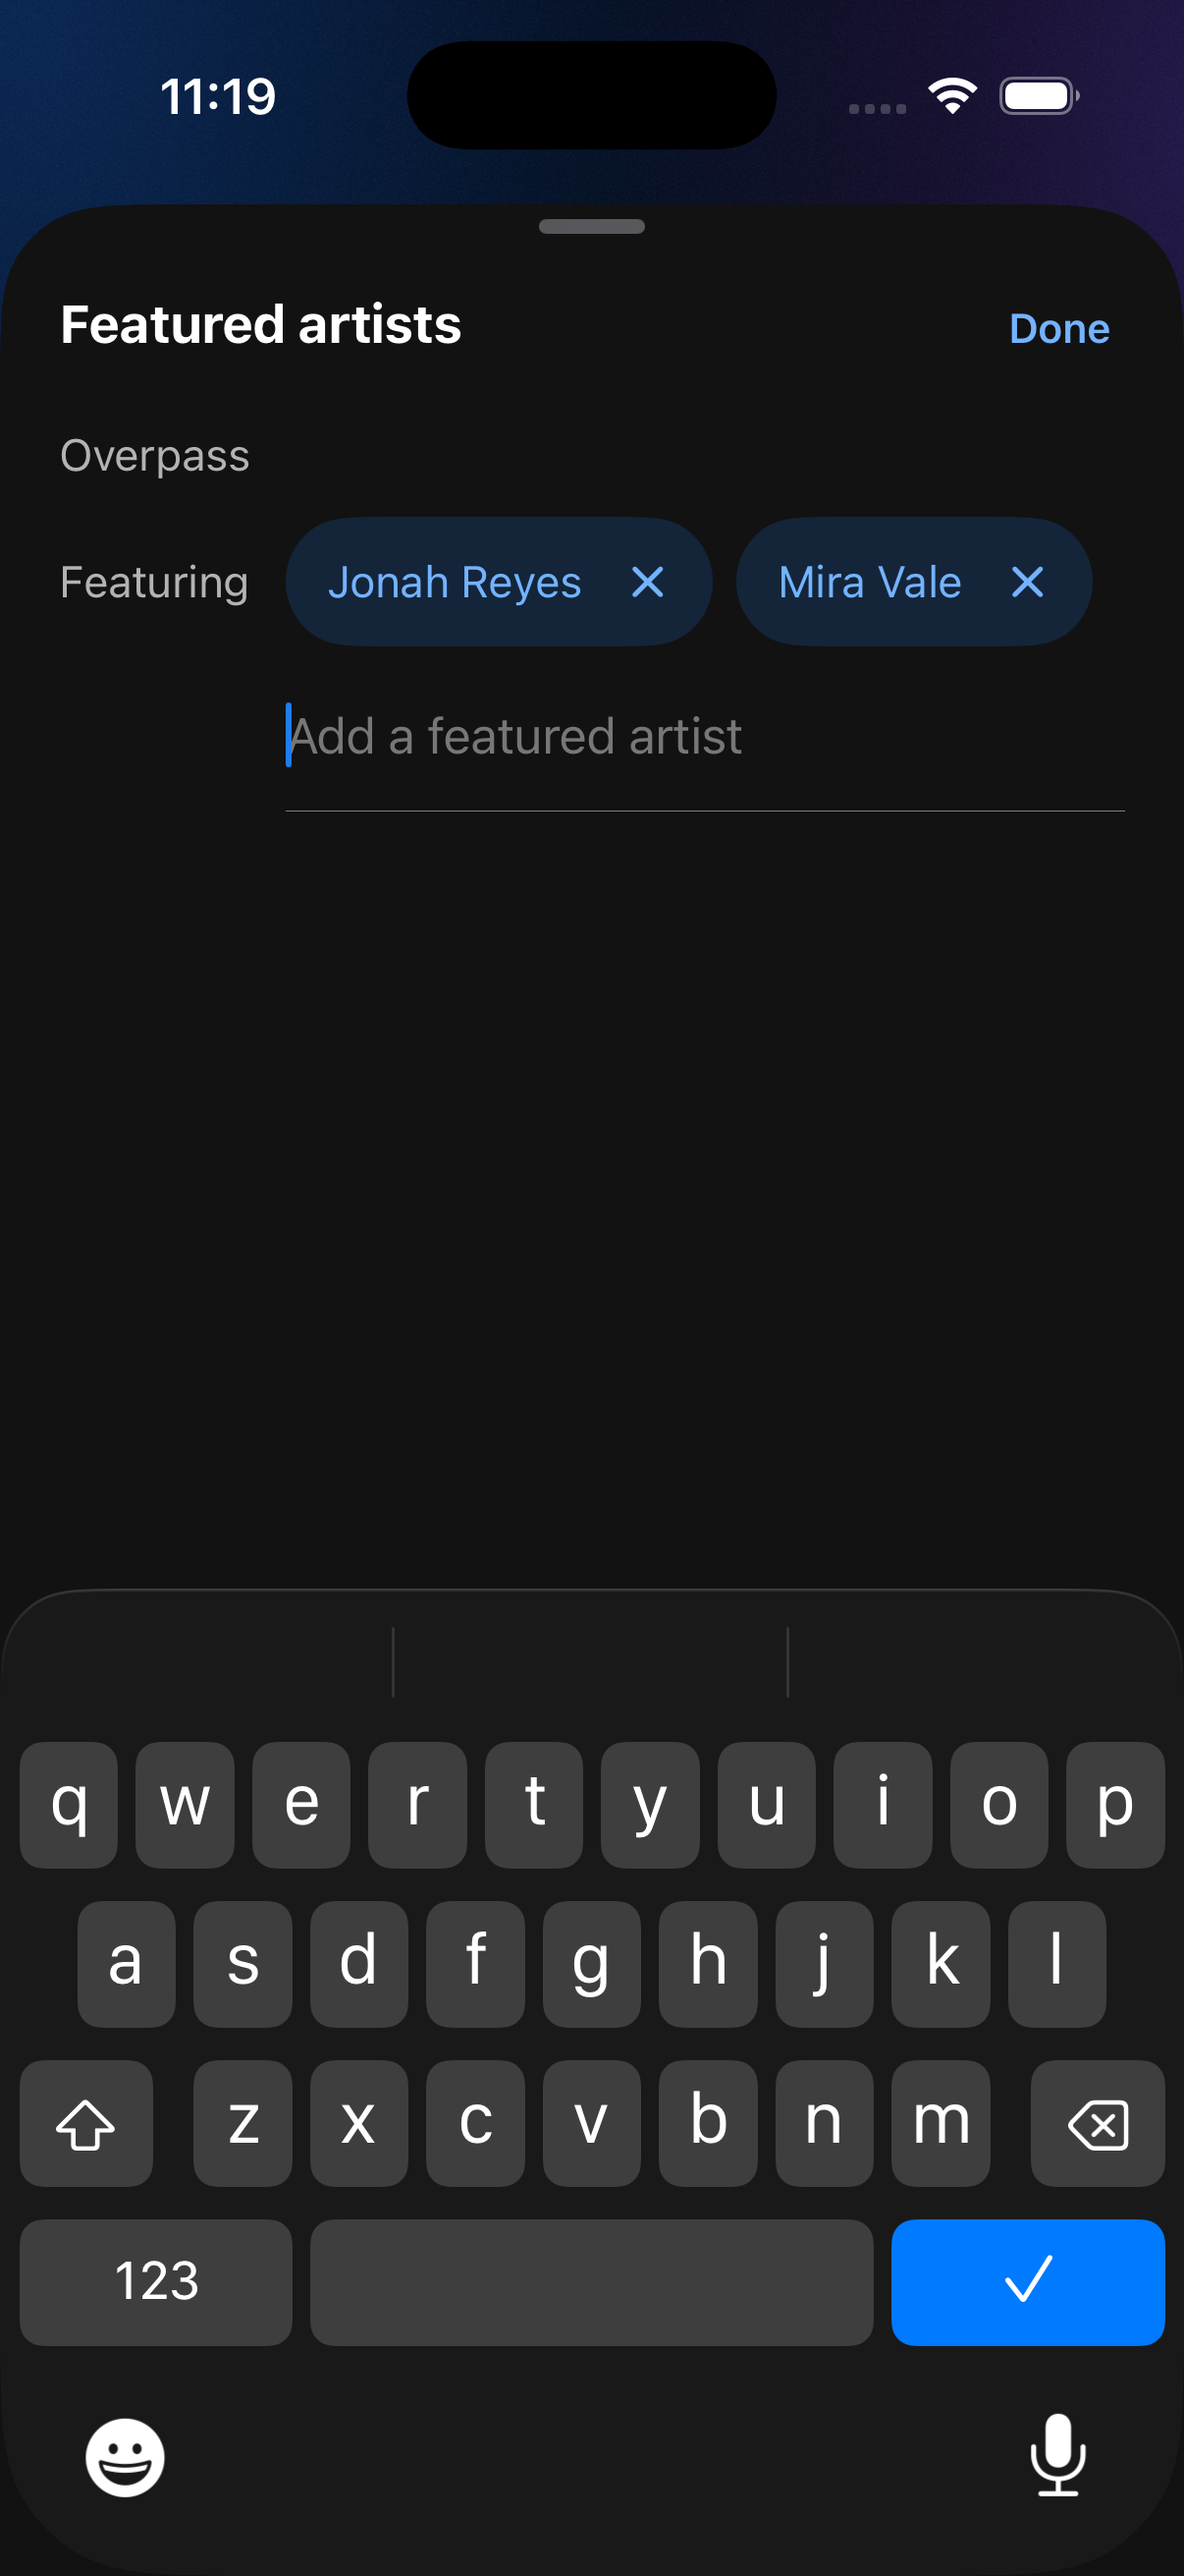
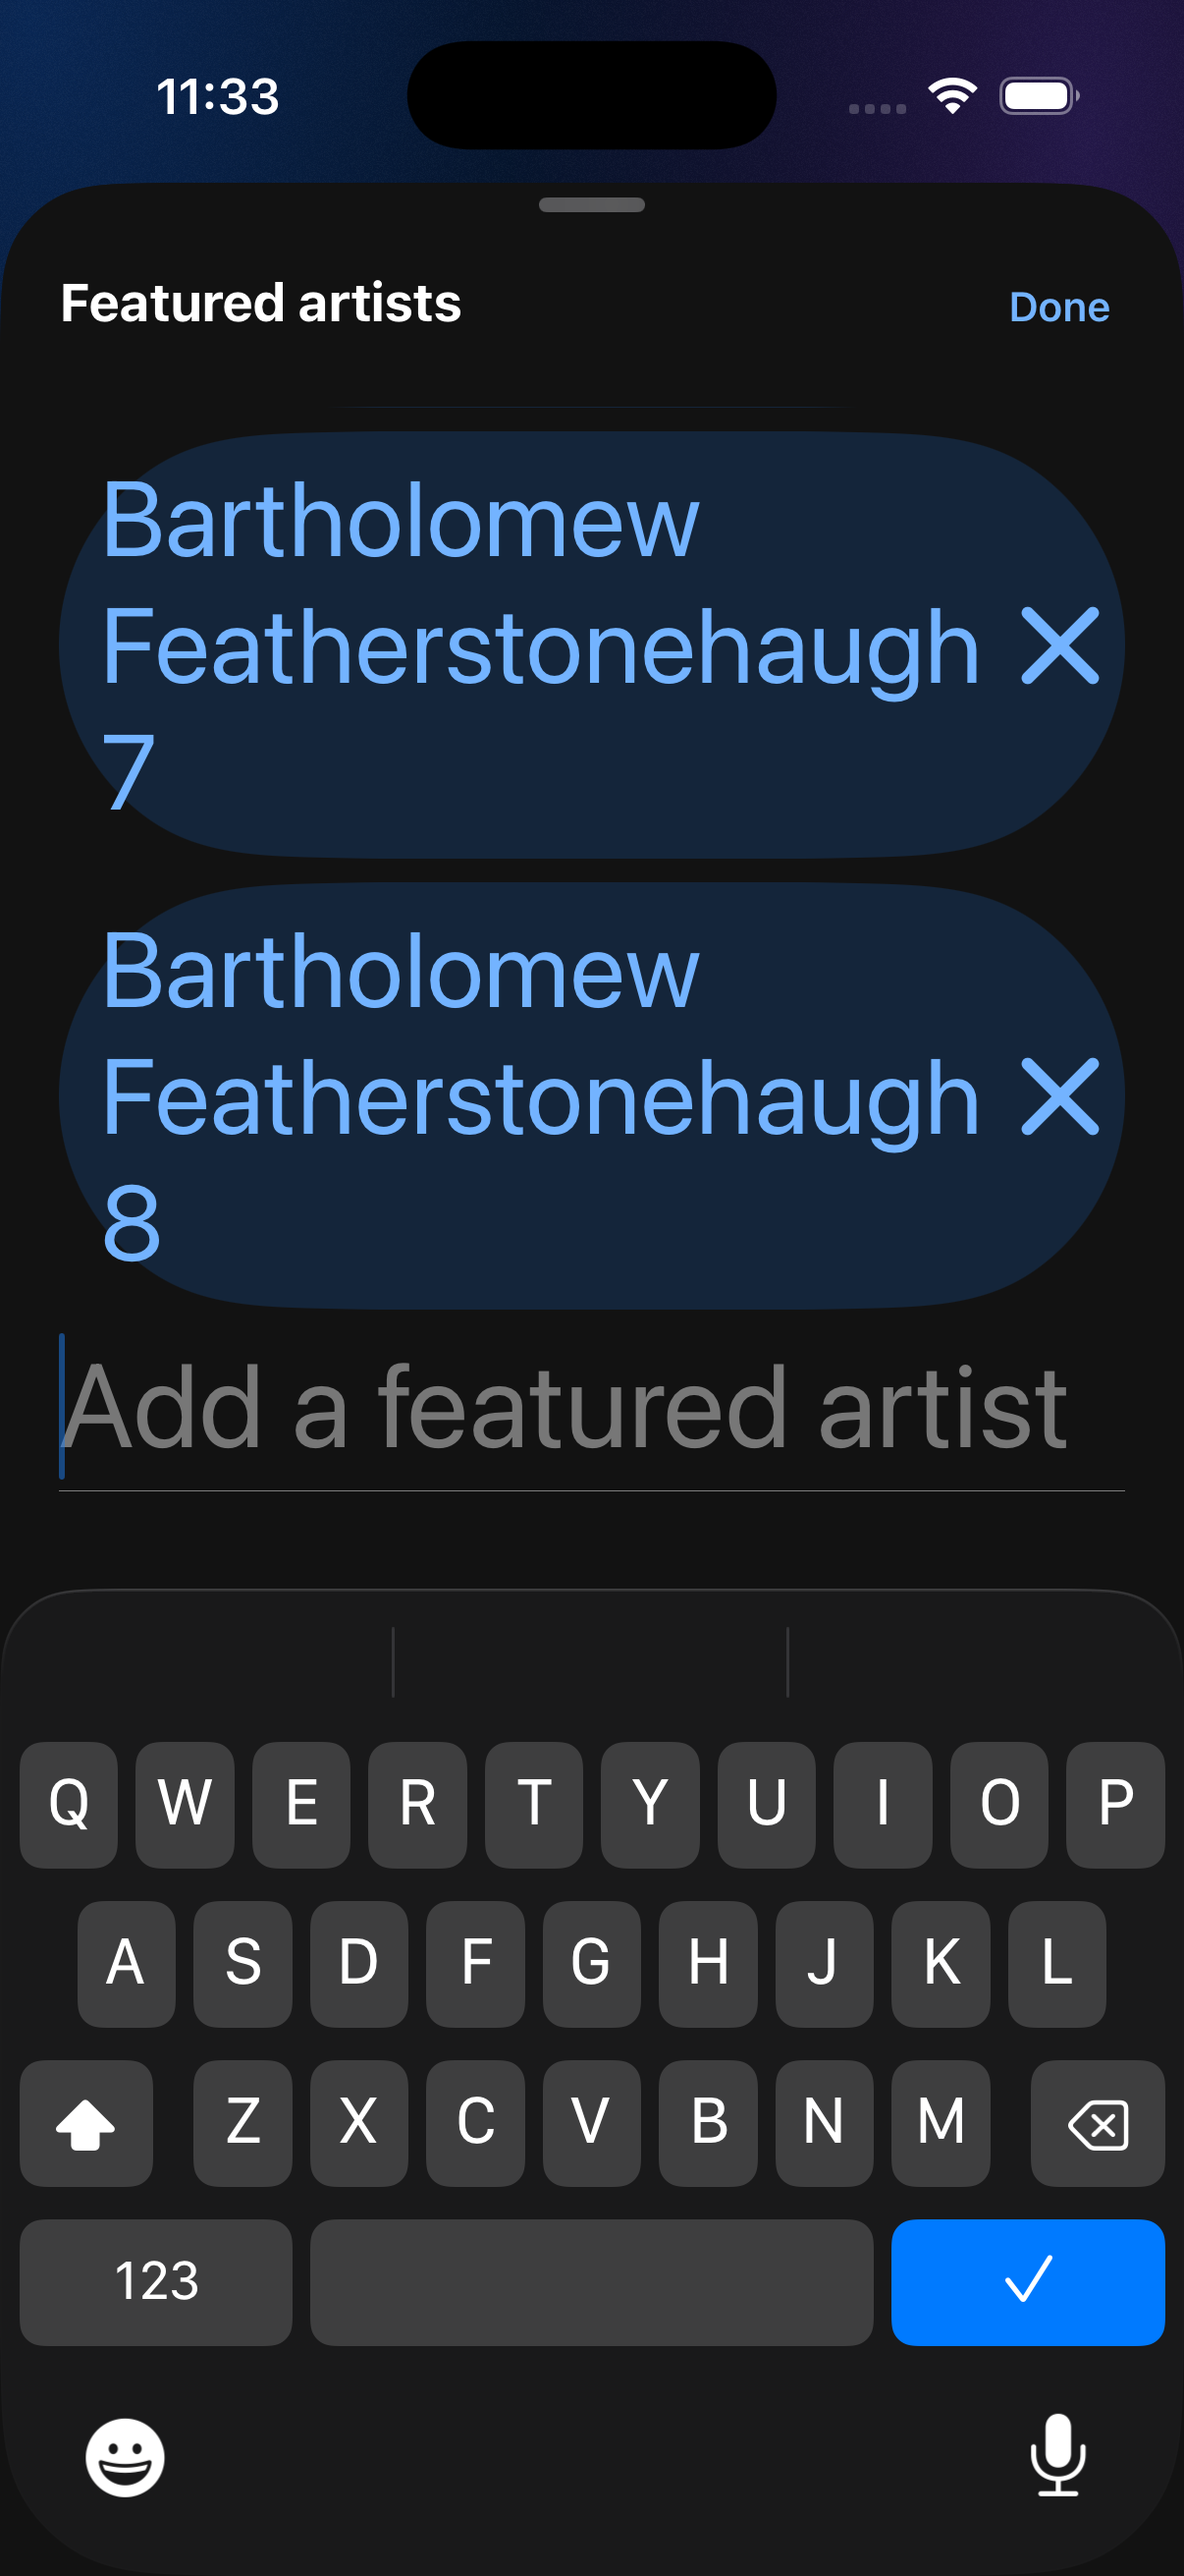
Featuring on the iPhone: single track titles kept, album tag stable, scrolling sheet (#287)
Claude-Session: https://claude.ai/code/session_016wtvpvRFjMyGctvKw2v9pz

diff --git a/apps/ios/LocallyTests/FeaturingFieldTests.swift b/apps/ios/LocallyTests/FeaturingFieldTests.swift
@@ -270,4 +270,93 @@ struct FeaturingFieldTests {
         #expect(saved.title == "Tune")
         #expect(saved.tracks.first?.title == "Tune (feat. B)")
     }
+
+    // MARK: Single whose track title differs from the release title (a record from the Mac)
+
+    private func macSingle(_ rig: Rig) async throws -> Release {
+        let release = try await rig.coordinator.importSingle(file: try makeSourceFile(), tags: TagSet(title: "Album", artist: "A", album: "Album", year: "2020"), cover: nil)
+        var mac = release
+        mac.tracks[0].title = "Song (feat. B)"
+        try rig.library.upsert(mac)
+        return mac
+    }
+
+    @Test func addingAFeatureKeepsTheTracksOwnPlainTitle() async throws {
+        let rig = Rig()
+        let release = try await macSingle(rig)
+        let model = ReleaseDetailViewModel(release: release, coordinator: rig.coordinator, coverStore: rig.coverStore)
+        #expect(model.title == "Album")
+        #expect(model.singleFeaturing == ["B"])
+
+        model.beginEditing()
+        model.singleFeaturing = ["B", "C"]
+        await model.save()
+
+        let saved = try #require(rig.library.all().first)
+        #expect(saved.title == "Album")
+        #expect(saved.tracks.first?.title == "Song (feat. B & C)")
+        #expect(try #require(rig.tagWriter.calls.last).tags.title == "Song (feat. B & C)")
+    }
+
+    @Test func aYearOnlySaveLeavesBothTitlesOfThatSingleAlone() async throws {
+        let rig = Rig()
+        let release = try await macSingle(rig)
+        let model = ReleaseDetailViewModel(release: release, coordinator: rig.coordinator, coverStore: rig.coverStore)
+
+        model.beginEditing()
+        model.year = "2021"
+        await model.save()
+
+        let saved = try #require(rig.library.all().first)
+        #expect(saved.title == "Album")
+        #expect(saved.tracks.first?.title == "Song (feat. B)")
+        #expect(saved.year == "2021")
+    }
+
+    @Test func editingTheTitleOfThatSingleReplacesTheTracksPlainTitle() async throws {
+        let rig = Rig()
+        let release = try await macSingle(rig)
+        let model = ReleaseDetailViewModel(release: release, coordinator: rig.coordinator, coverStore: rig.coverStore)
+
+        model.title = "Tune"
+        await model.save()
+
+        let saved = try #require(rig.library.all().first)
+        #expect(saved.title == "Tune")
+        #expect(saved.tracks.first?.title == "Tune (feat. B)")
+    }
+
+    // MARK: The album tag of a single
+
+    @Test func theAlbumTagIsTheSameAfterImportAndAfterAYearOnlySave() async throws {
+        let rig = Rig()
+        let url = try makeSourceFile()
+        rig.importer.tagsByURL[url] = TagSet(title: "Song (feat. B)", artist: "A", album: "Song (feat. B)")
+        let single = ImportSingleViewModel(importer: rig.importer, coordinator: rig.coordinator)
+        await single.pick(url: url)
+        await single.send()
+        let imported = try #require(rig.tagWriter.calls.last).tags
+        #expect(imported.album == "Song")
+
+        let release = try #require(rig.library.all().first)
+        let model = ReleaseDetailViewModel(release: release, coordinator: rig.coordinator, coverStore: rig.coverStore)
+        model.beginEditing()
+        model.year = "2021"
+        await model.save()
+
+        let saved = try #require(rig.tagWriter.calls.last).tags
+        #expect(saved.album == imported.album)
+        #expect(saved.title == imported.title)
+    }
+
+    @Test func aDifferentAlbumTypedOnImportIsKept() async throws {
+        let rig = Rig()
+        let url = try makeSourceFile()
+        rig.importer.tagsByURL[url] = TagSet(title: "Song", artist: "A", album: "Greatest Hits")
+        let single = ImportSingleViewModel(importer: rig.importer, coordinator: rig.coordinator)
+        await single.pick(url: url)
+        await single.send()
+
+        #expect(try #require(rig.tagWriter.calls.last).tags.album == "Greatest Hits")
+    }
 }

diff --git a/apps/ios/Locally/Views/Components/FeaturingField.swift b/apps/ios/Locally/Views/Components/FeaturingField.swift
@@ -220,6 +220,15 @@ struct FeaturingSheet: View {
 
     @State private var draft = ""
     @Environment(\.dynamicTypeSize) private var dynamicTypeSize
+    @Environment(\.accessibilityReduceMotion) private var reduceMotion
+
+    private static let endID = "featuring-sheet-end"
+
+    private func scrollToInput(_ proxy: ScrollViewProxy) {
+        withAnimation(reduceMotion ? nil : .easeOut(duration: 0.2)) {
+            proxy.scrollTo(Self.endID, anchor: .bottom)
+        }
+    }
 
     var body: some View {
         NavigationStack {
@@ -238,12 +247,31 @@ struct FeaturingSheet: View {
                     .buttonStyle(TextButtonStyle(color: Theme.Tint.accentText))
                     .frame(minWidth: 44, minHeight: 44)
                 }
-                Text(trackTitle)
-                    .font(Theme.ScaledFont.subheadline)
-                    .foregroundStyle(Theme.secondaryText)
-                    .lineLimit(2)
-                FeaturingField(names: $names, draft: $draft, autofocus: true)
-                Spacer(minLength: 0)
+                // The title, the pills and the input scroll; Done stays above them. The input is
+                // scrolled into view as names are added, so eight long names at a large text size
+                // with the keyboard up never leave it out of reach.
+                ScrollViewReader { proxy in
+                    ScrollView {
+                        VStack(alignment: .leading, spacing: Theme.Immersive.labeledFieldRowGap) {
+                            Text(trackTitle)
+                                .font(Theme.ScaledFont.subheadline)
+                                .foregroundStyle(Theme.secondaryText)
+                                .lineLimit(2)
+                            FeaturingField(names: $names, draft: $draft, autofocus: true)
+                            Color.clear.frame(height: 1).id(Self.endID)
+                        }
+                        .frame(maxWidth: .infinity, alignment: .leading)
+                    }
+                    .scrollBounceBehavior(.basedOnSize)
+                    .scrollDismissesKeyboard(.interactively)
+                    .onChange(of: names) { scrollToInput(proxy) }
+                    .onChange(of: draft) { scrollToInput(proxy) }
+                    .task {
+                        // After the keyboard has come up and the sheet has settled.
+                        try? await Task.sleep(for: .milliseconds(500))
+                        scrollToInput(proxy)
+                    }
+                }
             }
             .padding(Theme.Spacing.pagePadding)
             .frame(maxWidth: .infinity, maxHeight: .infinity, alignment: .topLeading)

diff --git a/apps/ios/Locally/Views/Components/ComponentGallery.swift b/apps/ios/Locally/Views/Components/ComponentGallery.swift
@@ -672,7 +672,7 @@ private struct ImportRecordGallery: View {
             // #287: two pills and the field, under Artist.
             Self.fill(single)
             single.featuring = ["Mira Vale", "Jonah Reyes"]
-        case "import-record-album-featuring-sheet":
+        case "import-record-album-featuring-sheet", "import-record-album-featuring-sheet-many":
             // #287: the feat. sheet open on the second track.
             kind = .album
             album.albumTitle = "Midnight Drive"
@@ -682,6 +682,10 @@ private struct ImportRecordGallery: View {
             }
             album.rows[0].featuring = ["Mira Vale"]
             album.rows[1].featuring = ["Jonah Reyes", "Mira Vale"]
+            if name.hasSuffix("-many") {
+                // Eight long names: the sheet must scroll (use with a large text size).
+                album.rows[1].featuring = (1...8).map { "Bartholomew Featherstonehaugh \($0)" }
+            }
             album.featuringRowID = album.rows[1].id
         case "import-record-live":
             Self.fill(single)

diff --git a/apps/ios/Locally/Views/Import/ImportSingleViewModel.swift b/apps/ios/Locally/Views/Import/ImportSingleViewModel.swift
@@ -119,12 +119,20 @@ final class ImportSingleViewModel {
         return TagSet(
             title: ArtistNames.joinFeaturing(title, featuring),
             artist: artist,
-            album: album.isEmpty ? title : album,
+            album: albumTag,
             trackNumber: 1,
             totalTracks: 1,
             year: year.isEmpty ? nil : year,
             genre: genre.isEmpty ? nil : genre
         )
+    }
+
+    /// The album tag. A later save writes the plain release title for a single, so an album that is
+    /// the title's own song ("Song (feat. B)" beside the title "Song") is written plain here too,
+    /// and an unrelated edit never changes the tag. Any other album is kept as typed.
+    private var albumTag: String {
+        let typed = album.isEmpty ? title : album
+        return ArtistNames.splitFeaturing(typed).title == title ? title : typed
     }
 
     /// Empties the draft (file, fields, cover, messages) and leaves the share queue alone. Used by

diff --git a/apps/ios/Locally/Views/Library/ReleaseDetailViewModel.swift b/apps/ios/Locally/Views/Library/ReleaseDetailViewModel.swift
@@ -308,7 +308,10 @@ final class ReleaseDetailViewModel {
         // A single has one title: what the user edits as "Title" is what
         // Spotify shows for the track, so the track tag follows it.
         if kind == .single, let only = trackRows.first {
-            trackTitles[only.id] = FeaturingNames.fullTitle(plain: title, featuring: only.featuring, original: savedTitle(of: only.id))
+            // The track keeps its own plain title (the Mac can give it one unlike the release's);
+            // only an edited Title field replaces it.
+            let plain = title == originalTitle ? only.title : title
+            trackTitles[only.id] = FeaturingNames.fullTitle(plain: plain, featuring: only.featuring, original: savedTitle(of: only.id))
         }
 
         let originalDiscs = Dictionary(originalTrackRows.compactMap { row in row.discNumber.map { (row.id, $0) } }, uniquingKeysWith: { first, _ in first })
